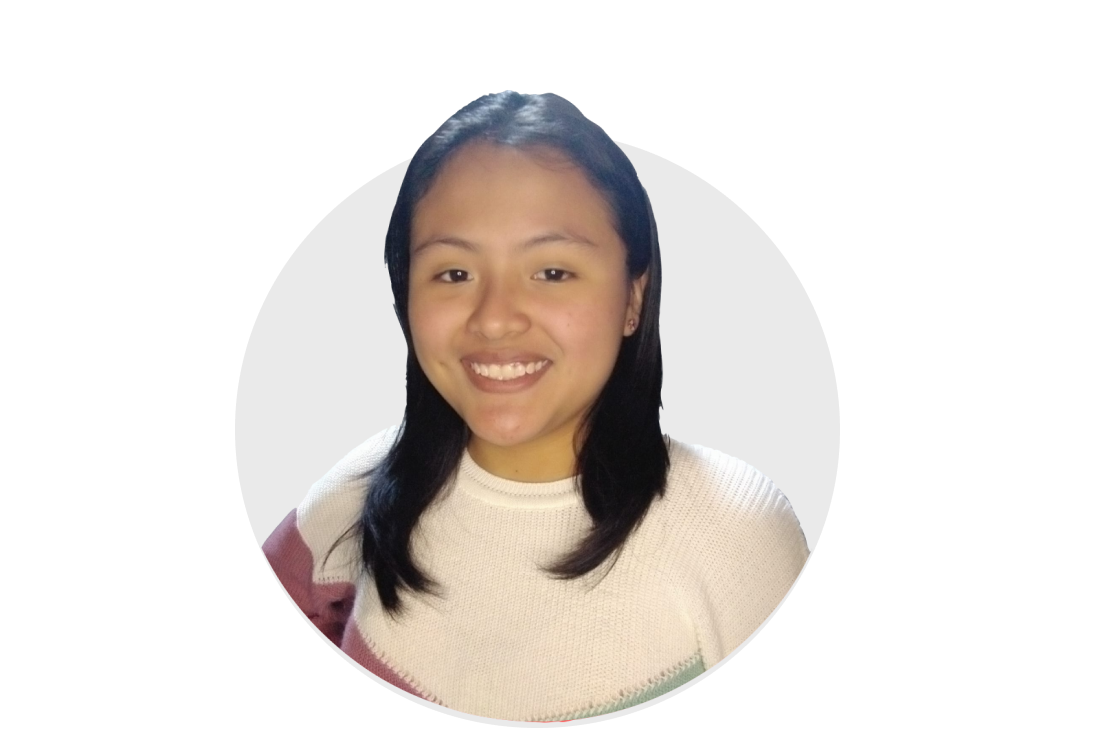
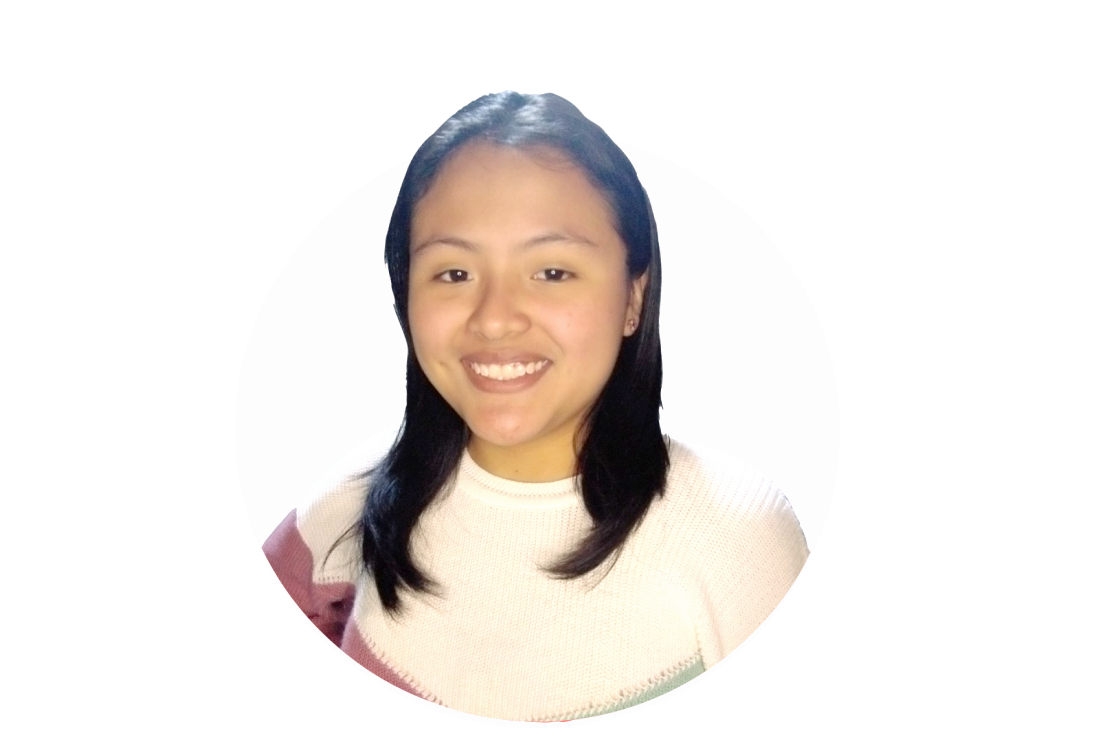
add responsive

Changed region(s): [[0.2133, 0.124, 0.7312, 0.9919]]

diff --git a/src/style/profile.css b/src/style/profile.css
@@ -17,10 +17,6 @@
 
 .imgDiana{
     width: 712px;
-   /*  position: absolute; */
-  /*   width: 789px;
-    height: 29rem;
-    padding-top: 80px; */
 }
 /* container_side_photo */
 .container_side_photo{
@@ -74,20 +70,49 @@
 
 
 @media (max-width: 950px) {
-    .circle{
-    position: absolute;
-    width: 261px;
-    height: 278px;
-    left: 89px;
-    top: 218px;
-    background: #EAEAEA;
-    box-shadow: 0px 4px 4px rgb(0 0 0 / 25%);
-    border-radius: 50%;
+    .container_profile{
+      background: #f5576c;
+        width: 100%;
+        height: 650px;
+    }
+    .container_img_circle{
+        display: flex;
+        flex-direction: column;
+        padding: 40px;
     }
     .imgDiana{
-        /* width: 50vw; */
-        position: absolute;
-        width: 789px;
-        height: 29rem;
+        width: 20rem;
     }
+    .typewriter h1 {
+        font-size: 24px;
+        color: #fff;
+        font-family: monospace;
+        overflow: hidden; /* Ensures the content is not revealed until the animation */
+        border-right: .15em solid orange; /* The typwriter cursor */
+        white-space: nowrap; /* Keeps the content on a single line */
+        margin: 0 auto; /* Gives that scrolling effect as the typing happens */
+        letter-spacing: .15em; /* Adjust as needed */
+        animation: 
+          typing 3.5s steps(30, end),
+          blink-caret .5s step-end infinite;
+      }
+      
+      /* The typing effect */
+      @keyframes typing {
+        from { width: 0 }
+        to { width: 100% }
+      }
+      
+      /* The typewriter cursor effect */
+      @keyframes blink-caret {
+        from, to { border-color: transparent }
+        50% { border-color: orange }
+      }
+      .p_developer{
+        font-size: 30px;
+        font-weight: 700;
+        color: white;
+        margin: 4px;
+        text-align: center;
+      } 
 }

diff --git a/src/index.html b/src/index.html
@@ -53,7 +53,7 @@
         <img src="./assets/DianaAngelica.png" alt="diana img" class="imgDiana">
         <div class="container_side_photo">
           <div class="typewriter">
-            <h1>!Hello world! ;)</h1>
+            <h1>!Hello world! :)</h1>
           </div>
           <div><p class="p_developer">I'm developer</p></div>  
           <div>
@@ -67,12 +67,12 @@
 
       <section class="container_about_me">
         <div class="box_about_me">
-          <p class="subTitle">About me</p>
-          <p class="p_aboutMe">Soy Front-End Developer, me considero una apasionada de la tecnología ya que 
+          <p class="subTitle">About me 👩</p>
+          <p class="p_aboutMe">Soy Front-End Developer 💻, me considero una apasionada de la tecnología ya que 
             disfruto de crear y proponer soluciones de acuerdo con la naturaleza de la 
-            organización. Desde muy pequeña me atrajo la tecnología, es por ello que decidí 
-            ingresar a LABORATORIA, lo cual me permitió desarrollarme en el área de 
-            Tecnología</p>
+            organización 🤓. Desde muy pequeña me atrajo la tecnología, es por ello que decidí 
+            ingresar a 💪 LABORATORIA, lo cual me permitió desarrollarme en el área de 
+            Tecnología 👩💻.</p>
         </div>
       </section>  
       <section class="container_skills">
